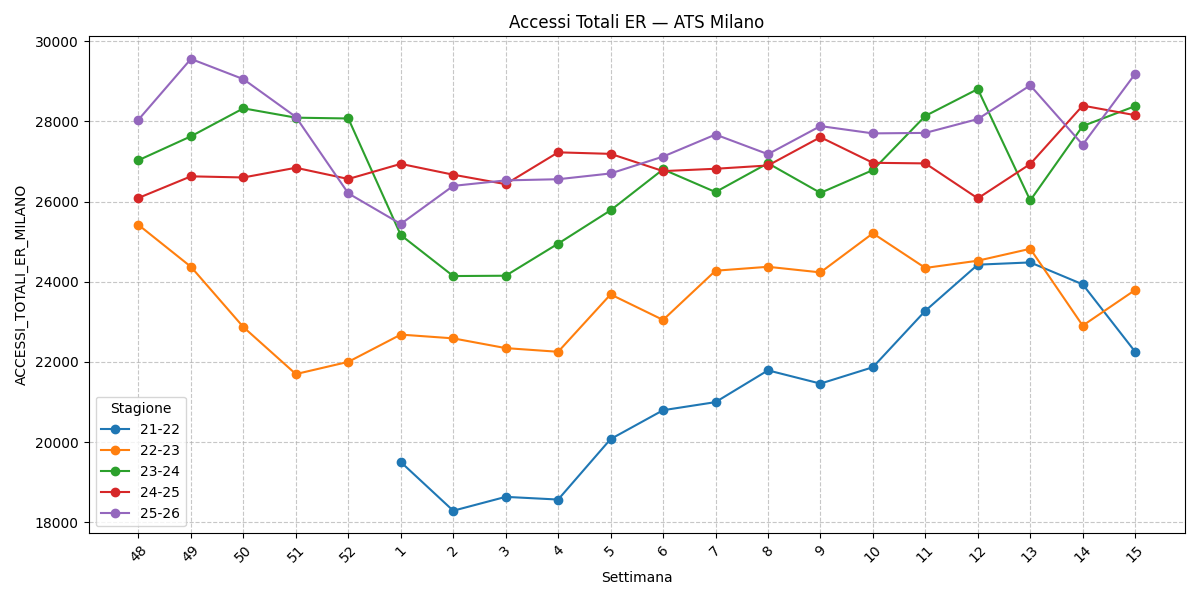
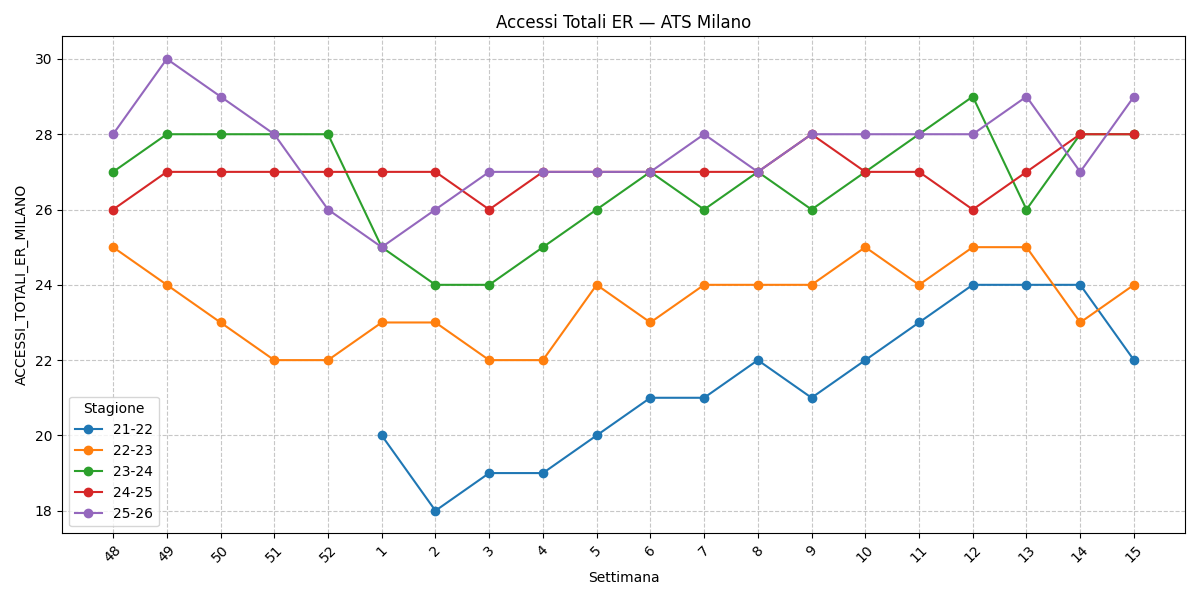
MODIFICHE ILI 3

diff --git a/SORVEGLIANZA ACCESSI PS/01_ILI_files.py b/SORVEGLIANZA ACCESSI PS/01_ILI_files.py
@@ -35,20 +35,29 @@ PROBLEMA NEL FILE (e come lo risolviamo):
     Python ha letto "1.692" come il numero decimale 1,692 invece
     dell'intero 1692.
 
-    REGOLA UNICA per tutti i fogli con CONTEGGI ASSOLUTI:
+    REGOLA per tutti i fogli con dati in LOMBARDIA:
         Se il valore letto da Python è < 100 → moltiplica per 1000
         Se il valore è >= 100              → è già corretto
 
     Questo funziona perché:
-        - Valori con il punto (es. 1.692, 2.459) vengono letti come
-          1.692 e 2.459 → sono < 100 → x 1000 → 1692 e 2459  ✓
+        - Valori con il punto (es. 10.692, 20.459) vengono letti come
+          10.692 e 20.459 → sono < 100 → x 1000 → 10692 e 20459  ✓
         - Valori sotto il migliaia senza punto (es. 766, 958) vengono
           letti già correttamente come 766 e 958 → >= 100 → invariati ✓
 
-    ATTENZIONE — VALORI GIÀ CORRETTI (non richiedono moltiplicazione):
-        Alcuni fogli (es. ADMISSION AFTER ER) hanno già valori interi
-        nel range corretto (centinaia/migliaia), quindi la soglia di 100
-        li lascia invariati correttamente.
+    Questo non funziona per le singole ATS perchè valori come 82 sono
+    minori di 100 ma non presentano il . da correggere.
+
+    REGOLA per tutti i fogli con dati in ATS:
+        Se il valore letto da Python è < 10 → moltiplica per 1000
+        Se il valore è >= 10              → è già corretto
+
+    Questo funziona perché:
+        - Valori con il punto (es. 1.692, 2.459) vengono letti come
+          1.692 e 2.459 → sono < 10 → x 1000 → 1692 e 2459  ✓
+        - Valori sotto il centinaio senza punto (es. 82, 95) vengono
+          letti già correttamente come 82 e 95 → >= 10 → invariati ✓
+
 
 STRUTTURA OUTPUT (sottocartelle CSV):
     output/
@@ -73,7 +82,6 @@ BIAS E LIMITAZIONI DA TENERE PRESENTI:
     - Finestra temporale breve (4-5 stagioni): aumenta il rischio di
       spurious correlations nelle analisi successive. Interpretare con cautela.
     - La stagione 21-22 è incompleta (mancano sett. 48-52 del 2021).
-    - I dati 25-26 sono parziali (stagione in corso).
 
 REQUISITI:
     pip install pandas openpyxl matplotlib
@@ -108,7 +116,7 @@ os.makedirs("output/grafici", exist_ok=True)
 # FUNZIONI
 # -------------------------------------------------------
 
-def correggi_separatore_migliaia(val):
+def correggi_separatore_migliaia_lom(val):
     """
     Corregge i valori in cui il punto separatore delle migliaia è stato
     letto da Python come separatore decimale.
@@ -133,6 +141,38 @@ def correggi_separatore_migliaia(val):
         except ValueError:
             return float('nan')
     return num * 1000 if num < 100 else num
+
+
+def applica_correzione_lom(df, colonne_anni):
+    """Applica correggi_separatore_migliaia su tutte le colonne anno."""
+    for col in colonne_anni:
+        df[col] = df[col].apply(correggi_separatore_migliaia_lom)
+        df[col] = pd.to_numeric(df[col], errors='coerce').round().astype('Int64')
+    return df
+
+def correggi_separatore_migliaia(val):
+    """
+    Corregge i valori in cui il punto separatore delle migliaia è stato
+    letto da Python come separatore decimale.
+
+    Regola: se il valore letto è < 10, era originalmente un numero con
+    il punto delle migliaia → moltiplica per 1000.
+
+    Serve una differenziazione perchè i valori in Lombardia sono
+    necessariamente più corposi rispetto alle singole ATS.
+    """
+
+    if pd.isna(val):
+        return val
+    if isinstance(val, (int, float)):
+        num = float(val)
+    else:
+        pulito = str(val).replace('.', '').replace(' ', '')
+        try:
+            num = float(pulito)
+        except ValueError:
+            return float('nan')
+    return num * 1000 if num < 10 else num
 
 
 def applica_correzione(df, colonne_anni):
@@ -285,7 +325,7 @@ print(f"Fogli trovati: {list(tutti_fogli_lom.keys())}")
 print("\n[1/6] TOTAL ACCESS IN ER (REGION)")
 df = tutti_fogli_lom["TOTAL ACCESS IN ER (REGION)"].copy()
 anni = [c for c in df.columns if c != 'WEEK']
-df = applica_correzione(df, anni)
+df = applica_correzione_lom(df, anni)
 df_s = trasforma_in_stagionale(df, anni, 'ACCESSI_TOTALI_ER')
 salva_csv(df_s, "LOMBARDIA", "access_tot_stagionale.csv")
 grafico_stagionale(df_s, 'ACCESSI_TOTALI_ER',
@@ -296,7 +336,7 @@ grafico_stagionale(df_s, 'ACCESSI_TOTALI_ER',
 print("\n[2/6] ACCESS IN ER (ILI)")
 df = tutti_fogli_lom["ACCESS IN ER (ILI)"].copy()
 anni = [c for c in df.columns if c != 'WEEK']
-df = applica_correzione(df, anni)
+df = applica_correzione_lom(df, anni)
 df_s = trasforma_in_stagionale(df, anni, 'ACCESSI_ILI_ER')
 salva_csv(df_s, "LOMBARDIA", "access_er_ili_stagionale.csv")
 grafico_stagionale(df_s, 'ACCESSI_ILI_ER',
@@ -307,7 +347,7 @@ grafico_stagionale(df_s, 'ACCESSI_ILI_ER',
 print("\n[3/6] ADMISSION AFTER ER (ILI)")
 df = tutti_fogli_lom["ADMISSION AFTER ER (ILI)"].copy()
 anni = [c for c in df.columns if c != 'WEEK']
-df = applica_correzione(df, anni)
+df = applica_correzione_lom(df, anni)
 df_s = trasforma_in_stagionale(df, anni, 'RICOVERI_DOPO_ER')
 salva_csv(df_s, "LOMBARDIA", "admission_after_er_stagionale.csv")
 grafico_stagionale(df_s, 'RICOVERI_DOPO_ER',
@@ -318,7 +358,7 @@ grafico_stagionale(df_s, 'RICOVERI_DOPO_ER',
 print("\n[4/6] ACCESS IN ER PER AGE (ILI)")
 df = tutti_fogli_lom["ACCESS IN ER PER AGE (ILI)"].copy()
 anni = [c for c in df.columns if c not in ['AGE GROUP', 'WEEK']]
-df = applica_correzione(df, anni)
+df = applica_correzione_lom(df, anni)
 df_s = trasforma_in_stagionale(df, anni, 'ACCESSI_ILI_ER', col_gruppo='AGE GROUP')
 salva_csv(df_s, "LOMBARDIA", "ili_er_per_age_stagionale.csv")
 grafico_stagionale(df_s, 'ACCESSI_ILI_ER',
